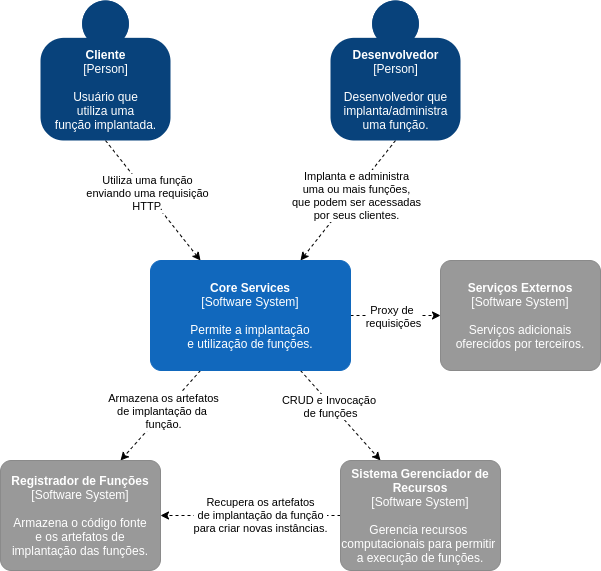
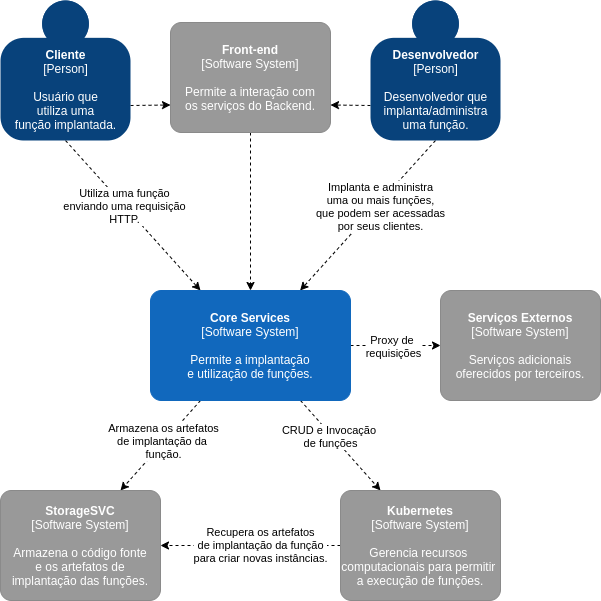
Update Context diagram image along with its description

diff --git a/content/posts/fission.md b/content/posts/fission.md
@@ -62,10 +62,44 @@ de entrada de diversas operações da plataforma. A API permite a realização d
 de funções por desenvolvedores, dessa forma, o *Core Services* é o responsável por
 interagir com os serviços internos para que a operação seja concluída.
  
-Além disso, depois de implantada a função pode ser utilizada pelos seus clientes.
-Neste caso, a API deve rotear as requisições HTTP para as instâncias que estão executando o 
-código-fonte da função.
+Além disso, depois de implantada a função pode ser invocada pelos seus clientes.
+Neste caso, a API deve rotear as requisições HTTP para as instâncias que executam 
+o código-fonte da função.
 
 ### Contexto
 
+O diagrama abaixo apresenta os principais sistemas que interagem com o *Core Services*,
+assim como as suas responsabilidades.
+
 ![contexto](fission/Fission-Architecture.png)
+
+### Eventos de entrada
+
+Podemos observar que o *Core Services*, como já descrito anteriormente, também funciona
+como o *Back-end* da *Fission*. Os Desenvolvedores e seus Clientes podem interagir 
+com a plataforma por meio do *Front-end* ou do *Fission CLI* (um software de linha
+de comando). 
+
+Quando os Desenvolvedores realizam a implantação de uma função, a plataforma 
+disponibiliza um *endpoint* que pode ser acessado para invocar a execução da função.
+Assim, a forma mais comum dos Clientes interagirem com a plataforma é 
+pelo disparo de requisições HTTP para invocar funções. 
+
+### Eventos de saída
+
+Como o *Core Services* é o ponto de entrada da plataforma, pode ser razoável imaginar
+que todos os recursos sejam resolvidos por esse componente, contudo, diversas tarefas
+são delegadas para outros componentes. 
+
+Como apresentado no diagrama acima, o *Kubernetes* é responsável por gerenciar os 
+recursos computacionais para permitir que as funções processem requisições dos seus 
+clientes. Dessa forma, o *Core Services* precisa interagir com o Kubernetes para 
+realizar o CRUD de funções, além de consultar os endereços das réplicas da função
+para roteá-las. O *Kubernetes* também é o responsável por realizar o escalonamento
+das instâncias em execução da função com base na métrica de utilização de CPU.
+
+Quando um desenvolvedor realiza o *deployment* de uma função, o *Core Services* se 
+encarrega de transformar o código-fonte em uma função implantável. Após o processo de 
+*build*, o *StorageSVC* é o responsável por armazenar os artefatos de 
+implantação resultantes. Dessa forma, quando necessário, o *Kubernetes* pode recuperar
+esses artefatos para criar novas réplicas da função.
